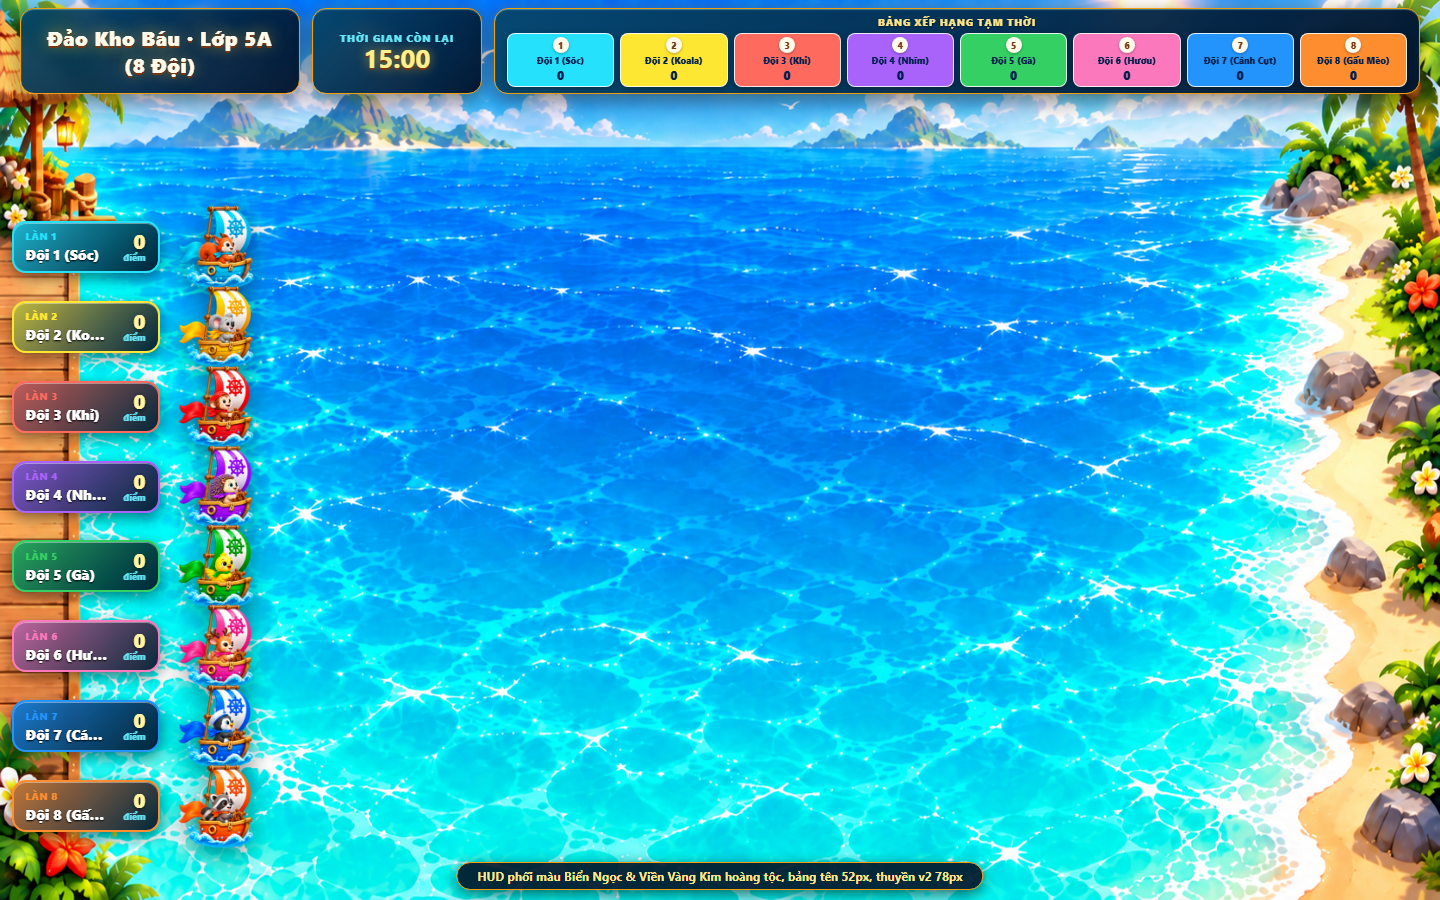
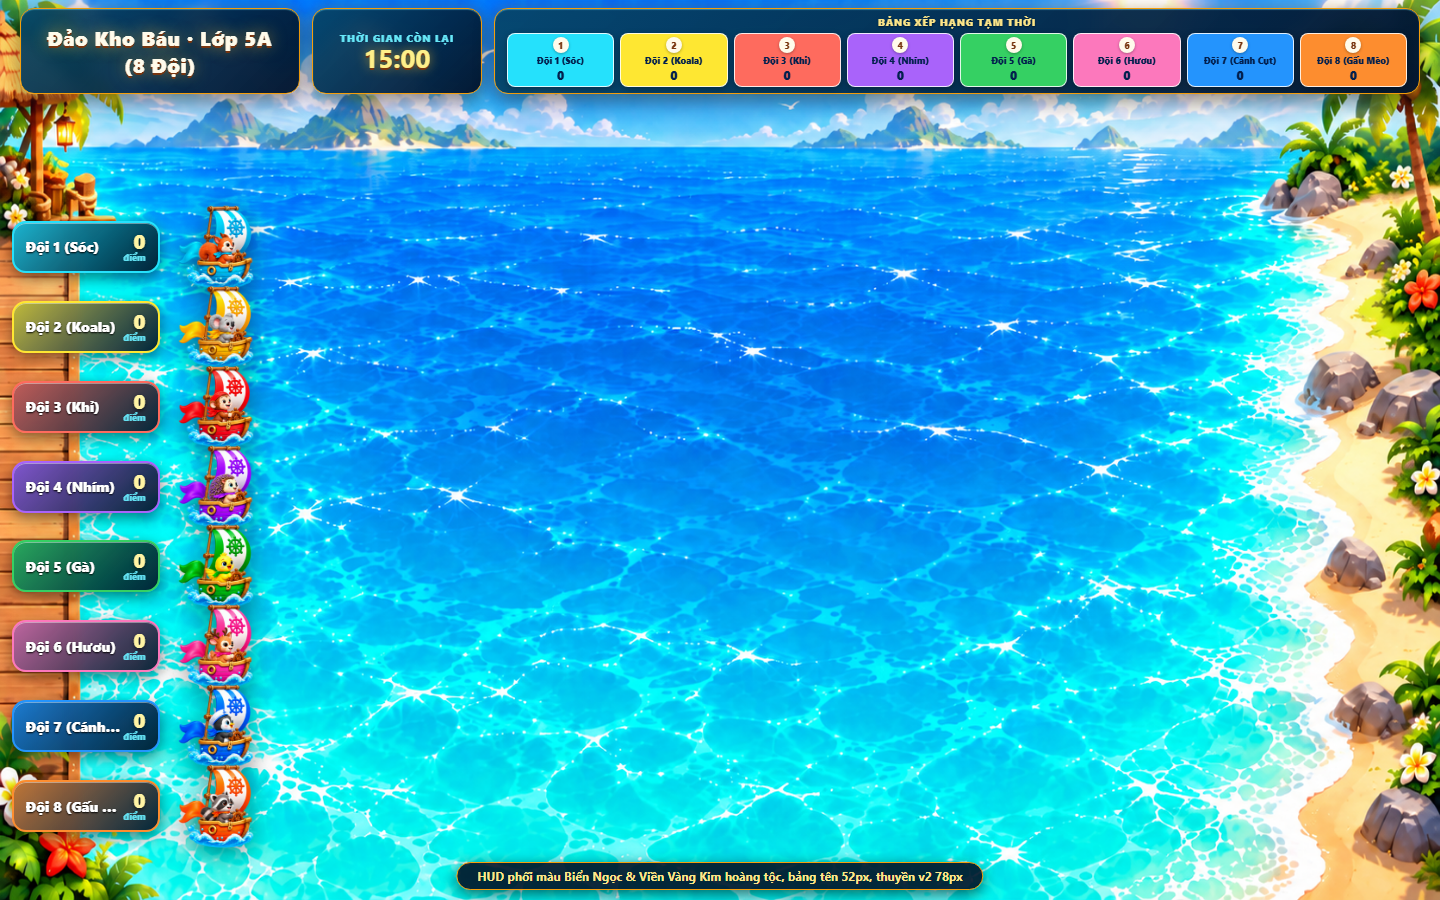
feat(team-competition): canh deu nut Bat dau va dua nut Ket thuc tran ve toolbar

diff --git a/src/main.js b/src/main.js
@@ -7710,14 +7710,12 @@ const app = {
                     // Pier: 15%, Beach: 87.5% -> travel distance: 72.5%
                     const boatProgress = Math.round(scoreProgress * 72.5);
 
-                    const ariaDesc = isBalloonTheme
+                    const ariaDesc = isBalloonTheme || isTreasureIsland
                         ? `${teamName}: ${score} trên 10, hạng tạm thời ${rank}`
-                        : (isTreasureIsland
-                            ? `${teamName}: thuyền làn ${lane.number}, ${score} trên 10, hạng tạm thời ${rank}`
-                            : `${teamName}: lane ${lane.number}, ${score} trên 10, hạng tạm thời ${rank}`);
+                        : `${teamName}: lane ${lane.number}, ${score} trên 10, hạng tạm thời ${rank}`;
 
                     const infoContent = isTreasureIsland
-                        ? `<div class="team-stadium-lane__info-content"><span class="team-stadium-lane__info-lane">Làn ${lane.number}</span><strong>${teamName}</strong></div><div class="team-stadium-lane__info-score"><b>${score}</b><em>điểm</em></div>`
+                        ? `<div class="team-stadium-lane__info-content"><strong>${teamName}</strong></div><div class="team-stadium-lane__info-score"><b>${score}</b><em>điểm</em></div>`
                         : `<strong>${teamName}</strong><b>${score}<em> điểm</em></b>`;
 
                     return `<article class="team-stadium-lane team-stadium-lane--${lane.color} team-stadium-lane--${teamStatusClass}" data-stadium-lane="${lane.number}" style="--race-progress:${Math.round(scoreProgress * 66)}%; --boat-progress:${boatProgress}%; --boat-lane-top:${boatLaneTop.toFixed(2)}%; --boat-width:${boatWidth}px; --lane-z:${10 + index}; --balloon-altitude:${Math.round(scoreProgress * 36)}%; --balloon-center-x:${balloonCenterPct.toFixed(2)}%; --lane-left:${laneLeftPct.toFixed(2)}%; --lane-width:${laneWidthPct.toFixed(2)}%" aria-label="${ariaDesc}"><div class="team-stadium-lane__info">${infoContent}</div><img class="team-stadium-lane__vehicle" src="${vehicleAsset}" alt="${vehicleAlt}" loading="eager" decoding="async" /></article>`;
@@ -7729,9 +7727,14 @@ const app = {
                 return `<article class="team-board-card team-board-card--${teamStatusClass}"><header class="team-board-card__top"><div class="team-board-rank">${String(index + 1).padStart(2, '0')}</div><div><p class="team-board-card__kicker">Đội ${index + 1}</p><h3>${teamName}</h3></div><span class="team-board-score">${score}<small>/10</small></span></header><div class="team-board-card__status-row"><span>${isLive ? `${progress}/${total || '?'} câu đã nộp` : `${team.memberUsernames.length} thành viên`}</span><span>${teamStatus}</span></div><div class="team-board-card__progress" aria-label="Tiến độ ${teamName}"><span style="width:${total ? Math.min(100, progress / total * 100) : 0}%"></span></div><div class="team-board-card__meta"><span>${isLive || match.status === app.teamCompetition.STATUS.ENDED ? `Hạng ${rank}` : teamStatus}</span><span>${metaRight}</span></div>${roster}<div class="team-board-card__actions">${editAction}</div></article>`;
             }).join('');
             const endSyncFailed = match.status === app.teamCompetition.STATUS.ENDED && app.teamCompetition.remote?.getStatus?.() === 'error';
-            const globalAction = match.status === app.teamCompetition.STATUS.PREPARED
-                ? `<button type="button" class="btn-start-massive team-board-start" onclick="app.admin.startTeamCompetition(decodeURIComponent('${token}'))">Bắt đầu thi đua</button>`
-                : (isLive ? `<button type="button" class="btn-danger team-board-end" onclick="app.admin.endTeamCompetition(decodeURIComponent('${token}'))">Kết thúc trận</button>` : (match.status === app.teamCompetition.STATUS.ENDED ? `${endSyncFailed ? `<button type="button" class="btn-primary team-board-retry-sync" onclick="app.admin.retryTeamCompetitionEndSync(decodeURIComponent('${token}'))">Thử đồng bộ lại</button>` : ''}<button type="button" class="btn-success team-board-replay" onclick="app.admin.replayTeamCompetition(decodeURIComponent('${token}'))">Chơi lại</button>` : ''));
+            const toolbarAction = isLive
+                ? `<button type="button" class="btn-danger team-board-end" onclick="app.admin.endTeamCompetition(decodeURIComponent('${token}'))">Kết thúc trận</button>`
+                : (match.status === app.teamCompetition.STATUS.ENDED
+                    ? `${endSyncFailed ? `<button type="button" class="btn-primary team-board-retry-sync" onclick="app.admin.retryTeamCompetitionEndSync(decodeURIComponent('${token}'))">Thử đồng bộ lại</button>` : ''}<button type="button" class="btn-success team-board-replay" onclick="app.admin.replayTeamCompetition(decodeURIComponent('${token}'))">Chơi lại</button>`
+                    : '');
+            const startActionHtml = match.status === app.teamCompetition.STATUS.PREPARED
+                ? `<div class="team-board-actions"><button type="button" class="btn-start-massive team-board-start" onclick="app.admin.startTeamCompetition(decodeURIComponent('${token}'))">Bắt đầu thi đua</button></div>`
+                : '';
             const statusClass = ['draft', 'prepared', 'active', 'ended'].includes(match.status) ? match.status : 'draft';
             const totalQuestions = match.teams.reduce((max, team) => Math.max(max, app.teamCompetition.getExamForTeam(match, team)?.questions?.length || 0), 0);
             const rankedTeams = [...match.teams].sort((left, right) => app.teamCompetition.getTeamRank(match, left.id) - app.teamCompetition.getTeamRank(match, right.id));
@@ -7774,7 +7777,7 @@ const app = {
             const endedNote = endSyncFailed
                 ? 'Kết quả đã được giữ trên thiết bị này nhưng chưa đồng bộ lên Supabase. Hãy kiểm tra kết nối rồi thử đồng bộ lại.'
                 : 'Trận đã kết thúc. Điểm nhóm được gán giống nhau cho từng thành viên trong bản ghi kết quả riêng.';
-            box.innerHTML = `<section class="team-competition-board ${isLive ? 'team-competition-board--live' : ''} team-competition-board--${presentationTheme}" aria-label="Bảng thi đua nhóm"><div class="team-board-toolbar"><button type="button" class="btn-opt" onclick="app.admin.switchQuestMode('team')"><span aria-hidden="true">←</span><span>Danh sách trận</span></button><button type="button" class="btn-opt" onclick="app.admin.enterTeamBoardFullscreen()"><span aria-hidden="true">⛶</span><span>Mở toàn màn hình</span></button>${globalAction ? `<div class="team-board-actions">${globalAction}</div>` : ''}<span class="team-status-pill team-status-pill--${statusClass}">${status}</span></div><div class="team-race-stadium team-race-stadium--${presentationTheme}"><button type="button" class="team-board-exit-fullscreen" onclick="app.admin.exitTeamBoardFullscreen()" aria-label="Thoát toàn màn hình" title="Thoát toàn màn hình (ESC)">✕</button><header class="team-board-hero">${titleCard}<div class="team-race-clock"><span>Thời gian còn lại</span><strong>${timerLabel}</strong></div>${leaderboard}<div class="team-board-summary" aria-label="Tóm tắt trận"><div><strong>${match.teams.length}</strong><span>đội</span></div><div><strong>${totalQuestions || '—'}</strong><span>câu/đề</span></div><div><strong>${match.teams.reduce((sum, team) => sum + team.memberUsernames.length, 0)}</strong><span>học sinh</span></div></div></header>${raceSurface}</div>${match.status === app.teamCompetition.STATUS.ENDED ? `<div class="team-board-ended-note" role="status">${endedNote}</div>` : ''}</section>`;
+            box.innerHTML = `<section class="team-competition-board ${isLive ? 'team-competition-board--live' : ''} team-competition-board--${presentationTheme}" aria-label="Bảng thi đua nhóm"><div class="team-board-toolbar"><button type="button" class="btn-opt" onclick="app.admin.switchQuestMode('team')"><span aria-hidden="true">←</span><span>Danh sách trận</span></button><button type="button" class="btn-opt" onclick="app.admin.enterTeamBoardFullscreen()"><span aria-hidden="true">⛶</span><span>Mở toàn màn hình</span></button>${toolbarAction ? `<div class="team-board-actions">${toolbarAction}</div>` : ''}<span class="team-status-pill team-status-pill--${statusClass}">${status}</span></div><div class="team-race-stadium team-race-stadium--${presentationTheme}"><button type="button" class="team-board-exit-fullscreen" onclick="app.admin.exitTeamBoardFullscreen()" aria-label="Thoát toàn màn hình" title="Thoát toàn màn hình (ESC)">✕</button><header class="team-board-hero">${titleCard}<div class="team-race-clock"><span>Thời gian còn lại</span><strong>${timerLabel}</strong></div>${leaderboard}<div class="team-board-summary" aria-label="Tóm tắt trận"><div><strong>${match.teams.length}</strong><span>đội</span></div><div><strong>${totalQuestions || '—'}</strong><span>câu/đề</span></div><div><strong>${match.teams.reduce((sum, team) => sum + team.memberUsernames.length, 0)}</strong><span>học sinh</span></div></div>${startActionHtml}</header>${raceSurface}</div>${match.status === app.teamCompetition.STATUS.ENDED ? `<div class="team-board-ended-note" role="status">${endedNote}</div>` : ''}</section>`;
             if (isLive) this.teamCompetitionBoardTimer = setInterval(() => {
                 const current = app.teamCompetition.store.get(match.id);
                 if (!current || current.status !== app.teamCompetition.STATUS.ACTIVE || !document.getElementById('treasure-content-area')?.contains(box)) { this.stopTeamCompetitionBoardTimer(); return; }

diff --git a/src/style.css b/src/style.css
@@ -6144,10 +6144,19 @@ input[type="text"], input[type="password"], select, textarea {
     z-index: 2;
     display: flex;
     align-items: center;
-    justify-content: flex-end;
+    justify-content: flex-start;
     gap: 7px;
     min-height: 32px;
     margin: 0 0 5px;
+}
+#treasure-modal.team-board-fullscreen .team-board-toolbar .team-board-actions {
+    display: inline-flex;
+    align-items: center;
+    margin-left: auto;
+    gap: 8px;
+}
+#treasure-modal.team-board-fullscreen .team-board-toolbar:not(:has(.team-board-actions)) .team-status-pill {
+    margin-left: auto;
 }
 #treasure-modal.team-board-fullscreen .team-board-toolbar button {
     padding: 6px 10px;
@@ -6156,26 +6165,31 @@ input[type="text"], input[type="password"], select, textarea {
     color: #e7fbff;
     font-size: .7rem;
 }
-#treasure-modal.team-board-fullscreen .team-board-toolbar .team-board-actions {
-    display: inline-flex;
-    align-items: center;
-    margin: 0;
-}
 #treasure-modal.team-board-fullscreen .team-board-toolbar .team-board-end {
-    padding: 6px 12px;
+    padding: 6px 14px;
     border: 1px solid #ff7878 !important;
     border-radius: clamp(8px, 1vw, 12px);
     background: linear-gradient(135deg, #ef4444, #b91c1c) !important;
     box-shadow: 0 2px 8px rgba(210, 20, 20, .45);
     color: #fff !important;
-    font-size: .72rem;
+    font-size: .75rem;
     font-weight: 800;
     cursor: pointer;
-    transition: transform .1s, background .2s;
+    text-transform: none;
+    transition: transform .1s, background .2s, box-shadow .2s;
 }
 #treasure-modal.team-board-fullscreen .team-board-toolbar .team-board-end:hover {
     background: linear-gradient(135deg, #f87171, #dc2626) !important;
     transform: translateY(-1px);
+    box-shadow: 0 4px 12px rgba(210, 20, 20, .6);
+}
+#treasure-modal.team-board-fullscreen .team-board-toolbar :is(.team-board-replay, .team-board-retry-sync) {
+    padding: 6px 14px;
+    font-size: .75rem;
+    font-weight: 800;
+    border-radius: clamp(8px, 1vw, 12px);
+    cursor: pointer;
+    text-transform: none;
 }
 #treasure-modal.team-board-fullscreen .team-race-stadium {
     position: relative;
@@ -6377,6 +6391,7 @@ input[type="text"], input[type="password"], select, textarea {
     border-radius: 0 !important;
     box-shadow: none !important;
 }
+/* Fullscreen Exit Button */
 .team-board-exit-fullscreen {
     display: none;
 }
@@ -6384,7 +6399,7 @@ input[type="text"], input[type="password"], select, textarea {
     position: absolute;
     top: 14px;
     right: 18px;
-    z-index: 25;
+    z-index: 50;
     display: flex;
     align-items: center;
     justify-content: center;
@@ -6398,7 +6413,7 @@ input[type="text"], input[type="password"], select, textarea {
     font-size: 1.15rem;
     font-weight: 700;
     cursor: pointer;
-    opacity: 0;
+    opacity: 0.75;
     transition: opacity .25s ease, background .2s ease, transform .15s ease;
     backdrop-filter: blur(8px);
 }
@@ -6407,6 +6422,96 @@ input[type="text"], input[type="password"], select, textarea {
     background: rgba(3, 21, 61, .92);
     border-color: rgba(255, 255, 255, .85);
     transform: scale(1.08);
+}
+
+/* Prepared / Non-live Team Board Hero: Perfectly balanced 3-column flex layout */
+#treasure-modal.team-board-fullscreen .team-competition-board:not(.team-competition-board--live) .team-board-hero {
+    position: relative;
+    z-index: 1;
+    display: flex;
+    justify-content: space-between;
+    align-items: center;
+    gap: clamp(16px, 2.5vw, 36px);
+    padding: 0 0 clamp(10px, 1.4vh, 18px);
+    width: 100%;
+}
+:is(#treasure-modal.team-board-fullscreen-mode, .admin-panel:fullscreen) .team-competition-board:not(.team-competition-board--live) .team-board-hero {
+    padding-right: clamp(52px, 4.5vw, 68px);
+}
+#treasure-modal.team-board-fullscreen .team-competition-board:not(.team-competition-board--live) .team-stadium-title-card {
+    flex: 1 1 0;
+    min-width: 0;
+}
+#treasure-modal.team-board-fullscreen .team-competition-board:not(.team-competition-board--live) .team-stadium-title-card h2 {
+    margin: 2px 0 4px;
+    font-size: clamp(1.4rem, 2.5vw, 2.6rem);
+    line-height: 1.15;
+}
+#treasure-modal.team-board-fullscreen .team-competition-board:not(.team-competition-board--live) .team-stadium-title-card p {
+    margin: 0;
+    color: #c6f4ff;
+    font-size: clamp(0.72rem, 0.95vw, 0.95rem);
+    font-weight: 700;
+}
+#treasure-modal.team-board-fullscreen .team-competition-board:not(.team-competition-board--live) .team-race-clock {
+    flex: 0 0 auto;
+    margin: 0 auto;
+    min-width: clamp(150px, 16vw, 210px);
+    padding: clamp(8px, 1.1vh, 12px) clamp(16px, 1.8vw, 26px);
+    border: 2px solid #5aeaff;
+    border-radius: clamp(14px, 1.6vw, 20px);
+    background: linear-gradient(135deg, #073b88, #041b55);
+    box-shadow: 0 0 20px rgba(54, 236, 255, 0.35);
+    text-align: center;
+}
+#treasure-modal.team-board-fullscreen .team-competition-board:not(.team-competition-board--live) .team-race-clock span {
+    display: block;
+    color: #bdefff;
+    font-size: clamp(0.6rem, 0.8vw, 0.78rem);
+    font-weight: 900;
+    letter-spacing: 0.08em;
+    text-transform: uppercase;
+}
+#treasure-modal.team-board-fullscreen .team-competition-board:not(.team-competition-board--live) .team-race-clock strong {
+    display: block;
+    color: #fff;
+    font-size: clamp(1.35rem, 2.4vw, 2.6rem);
+    line-height: 1.05;
+    letter-spacing: 0.04em;
+    text-shadow: 0 0 14px #41e7ff;
+}
+#treasure-modal.team-board-fullscreen .team-competition-board:not(.team-competition-board--live) .team-board-actions {
+    flex: 1 1 0;
+    display: flex;
+    justify-content: flex-end;
+    align-items: center;
+    min-width: 0;
+    margin: 0;
+}
+#treasure-modal.team-board-fullscreen .team-competition-board:not(.team-competition-board--live) .team-board-start {
+    margin: 0;
+    padding: clamp(11px, 1.4vh, 16px) clamp(24px, 2.5vw, 42px);
+    font-size: clamp(0.98rem, 1.25vw, 1.3rem);
+    font-weight: 900;
+    border: 2px solid #fff0a0;
+    border-radius: 18px;
+    background: linear-gradient(135deg, #f59e0b, #ef4444);
+    color: #fff;
+    box-shadow: 0 5px 20px rgba(239, 68, 68, 0.45), 0 0 18px rgba(253, 224, 71, 0.6);
+    cursor: pointer;
+    text-transform: none;
+    letter-spacing: 0.02em;
+    white-space: nowrap;
+    line-height: 1.2;
+    transition: transform 0.15s ease, box-shadow 0.15s ease, filter 0.15s ease;
+}
+#treasure-modal.team-board-fullscreen .team-competition-board:not(.team-competition-board--live) .team-board-start:hover {
+    transform: translateY(-2px) scale(1.02);
+    filter: brightness(1.08);
+    box-shadow: 0 7px 25px rgba(239, 68, 68, 0.6), 0 0 24px rgba(253, 224, 71, 0.85);
+}
+#treasure-modal.team-board-fullscreen .team-competition-board:not(.team-competition-board--live) .team-board-start:active {
+    transform: translateY(0) scale(0.98);
 }
 #treasure-modal.team-board-fullscreen .team-competition-board--live .team-race-stadium--speed-race .team-stadium-title-card,
 #treasure-modal.team-board-fullscreen .team-competition-board--live .team-race-stadium--speed-race .team-race-clock,
@@ -6812,7 +6917,7 @@ input[type="text"], input[type="password"], select, textarea {
     position: absolute;
     top: clamp(8px, 1.2vh, 16px);
     left: clamp(12px, 1.5vw, 24px);
-    right: clamp(12px, 1.5vw, 24px);
+    right: clamp(56px, 4.5vw, 68px);
     z-index: 25;
     display: grid;
     grid-template-columns: minmax(230px, 1.15fr) minmax(160px, 0.62fr) minmax(380px, 1.9fr);
@@ -7009,26 +7114,19 @@ input[type="text"], input[type="password"], select, textarea {
 #treasure-modal.team-board-fullscreen .team-competition-board--live .team-race-stadium--treasure-island .team-stadium-lane__info-content {
     display: flex;
     flex-direction: column;
-    gap: 2px;
+    justify-content: center;
     min-width: 0;
 }
-#treasure-modal.team-board-fullscreen .team-competition-board--live .team-race-stadium--treasure-island .team-stadium-lane__info-lane {
-    font-size: 10px;
-    font-weight: 900;
-    text-transform: uppercase;
-    letter-spacing: 0.05em;
-    color: var(--lane-accent-color, #67e8f9);
-}
 #treasure-modal.team-board-fullscreen .team-competition-board--live .team-race-stadium--treasure-island .team-stadium-lane__info-content strong {
-    font-size: clamp(11px, 0.95vw, 14px);
+    font-size: clamp(12px, 1.05vw, 15px);
     color: #fff;
     text-shadow: 0 1px 2px #000;
     font-weight: 900;
     overflow: hidden;
     white-space: nowrap;
     text-overflow: ellipsis;
-    max-width: 86px;
-    line-height: 1.1;
+    max-width: 96px;
+    line-height: 1.2;
 }
 #treasure-modal.team-board-fullscreen .team-competition-board--live .team-race-stadium--treasure-island .team-stadium-lane__info-score {
     display: flex;
